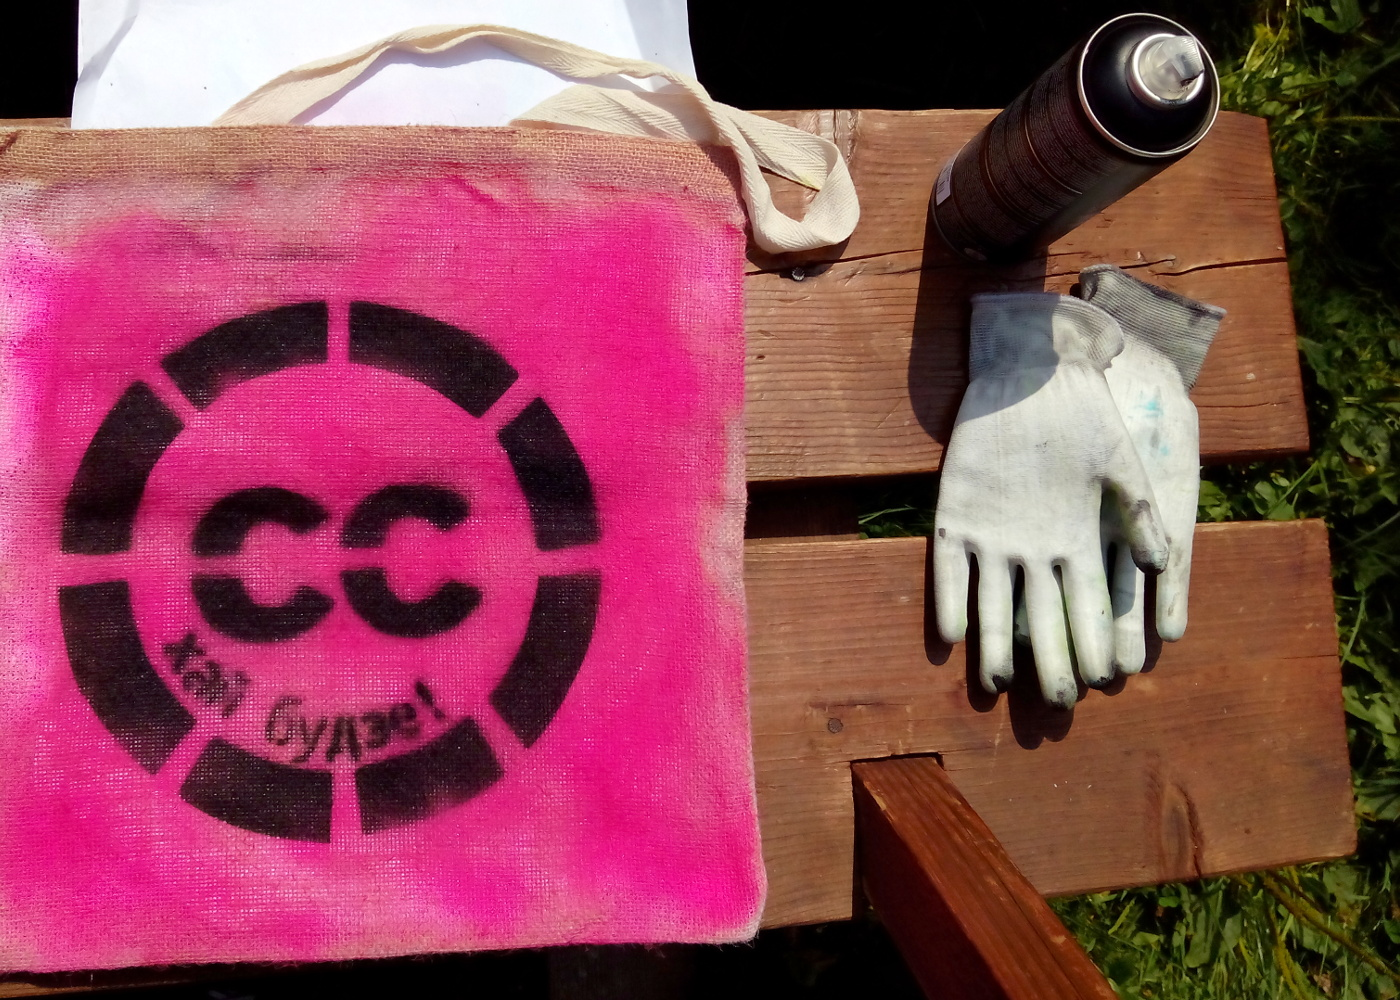
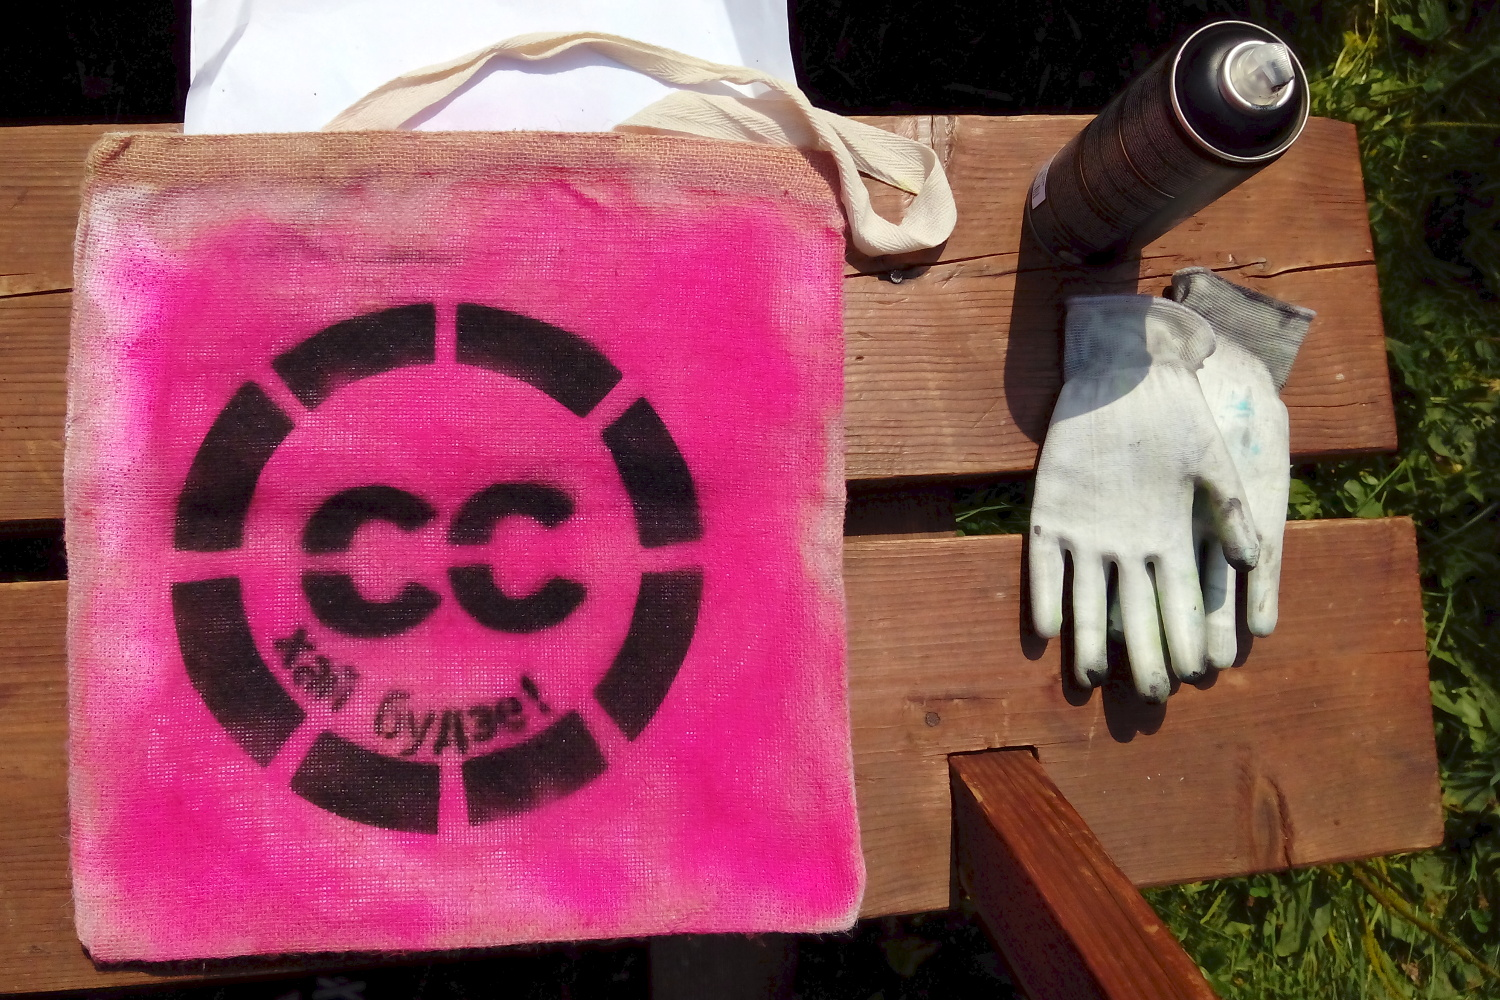
cc bags photos new size added and linked to product8 page and index page

diff --git a/product-8.html b/product-8.html
@@ -90,9 +90,10 @@
         <div class="row">
 
             <div class="col-md-8">
-                <p><img class="img-responsive" src="http://placehold.it/750x500" alt=""></p>
-		<p><img class="img-responsive" src="http://placehold.it/750x500" alt=""></p>
-		<p><img class="img-responsive" src="http://placehold.it/750x500" alt=""></p>
+                <p><img class="img-responsive" src="images/products/pr8/cc_sumki_1.jpg" alt=""></p>
+		<p><img class="img-responsive" src="images/products/pr8/cc_sumki_3.jpg" alt=""></p>
+		<p><img class="img-responsive" src="images/products/pr8/cc_sumki_2.jpg" alt=""></p>
+		<p><img class="img-responsive" src="images/products/pr8/cc_sumki_4.jpg" alt=""></p>
             </div>
 
             <div class="col-md-4">

diff --git a/index.html b/index.html
@@ -183,7 +183,7 @@
                 </div>                
 
                 <a href="product-4.html">
-                    <img class="img-responsive" src="http://placehold.it/750x500" alt="">
+                    <img class="img-responsive" src="images/products/pr8/cc_sumki_5.jpg" alt="">
                 </a>
 
             </div>
